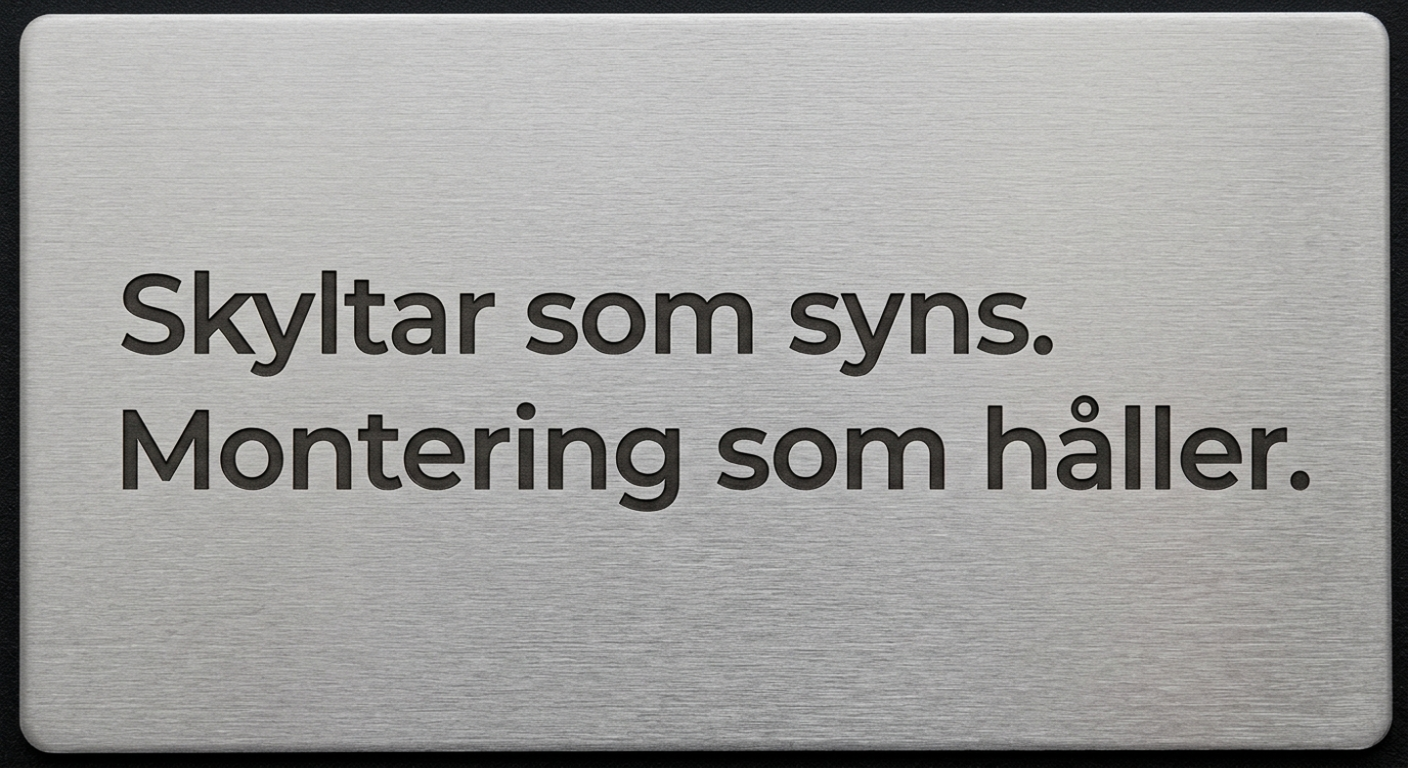
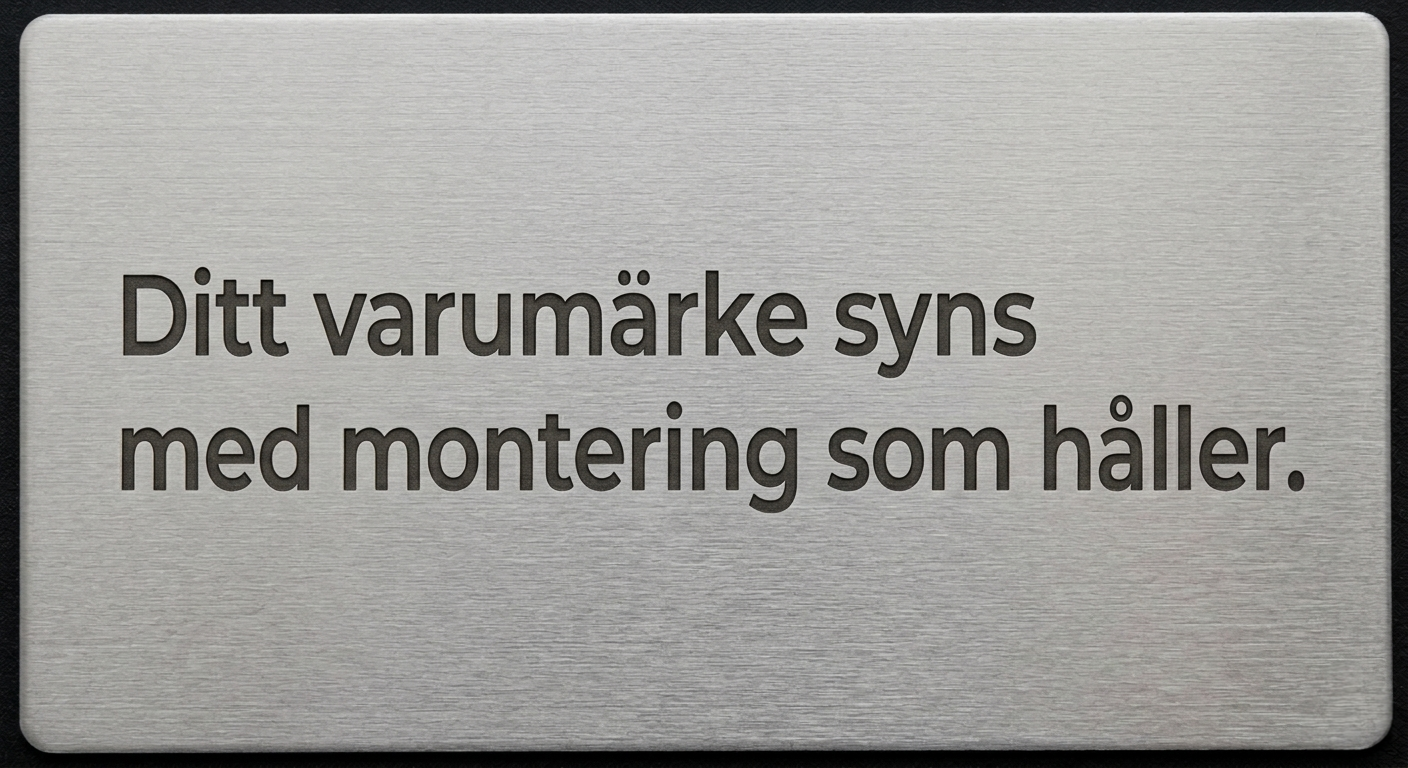
Update About and QuoteModal components with text improvements; add new image assets

Changed region(s): [[0.0625, 0.5, 0.9375, 0.6875], [0.0625, 0.3438, 0.75, 0.5]]

diff --git a/components/about.tsx b/components/about.tsx
@@ -96,16 +96,15 @@ export default function About() {
               {...fadeUp(0.1)}
               className="mt-5 text-3xl font-bold leading-[1.15] tracking-tight text-white sm:text-4xl lg:text-5xl"
             >
-              Passion för skyltar.{" "}
-              <span className="text-brand-orange">Stolthet i arbetet.</span>
+              {" "}
+              <span className="text-brand-orange">Montering som håller.</span>
             </motion.h2>
 
             <motion.p
               {...fadeUp(0.2)}
               className="mt-6 text-lg leading-relaxed text-white/60"
             >
-              Skyltar O Montering grundades av hantverkare med en enkel övertygelse: rätt
-              monterad skylt ska synas, hålla och representera ditt varumärke på
+              Rätt monterad skylt ska synas, hålla och representera ditt varumärke på
               bästa möjliga sätt. 
             </motion.p>
 
@@ -114,7 +113,7 @@ export default function About() {
               className="mt-4 text-lg leading-relaxed text-white/60"
             >
               Vi är alltid behjälpliga och anpassningsbara efter dina behov. 
-              — från mätning och offert till
+              — från mätning till
               slutbesiktning.
             </motion.p>
 
@@ -166,7 +165,7 @@ export default function About() {
                 
               </p>
               <p className="relative mt-3 text-xl font-semibold leading-snug sm:text-2xl">
-                Alltid anpassningsbara på plats, alltid 
+                Alltid anpassningsbara på plats efter dina önskemål
               </p>
               <p className="relative mt-4 text-sm text-white/70">
                 

diff --git a/components/quote-modal.tsx b/components/quote-modal.tsx
@@ -167,7 +167,7 @@ export default function QuoteModal() {
               {/* Title block — sits just below the grommet holes at y=47px */}
               <div className={cn(garamond.className, "absolute left-0 right-0 flex flex-col items-center text-center px-16")} style={{ top: "56px" }}>
                 <Dialog.Title className="text-2xl font-bold text-brand-navy leading-tight">
-                  Begär offert
+                  Kontakta oss.
                 </Dialog.Title>
                 <Dialog.Description className="text-sm text-gray-500 leading-tight">
                   Vi återkommer inom 24 timmar.